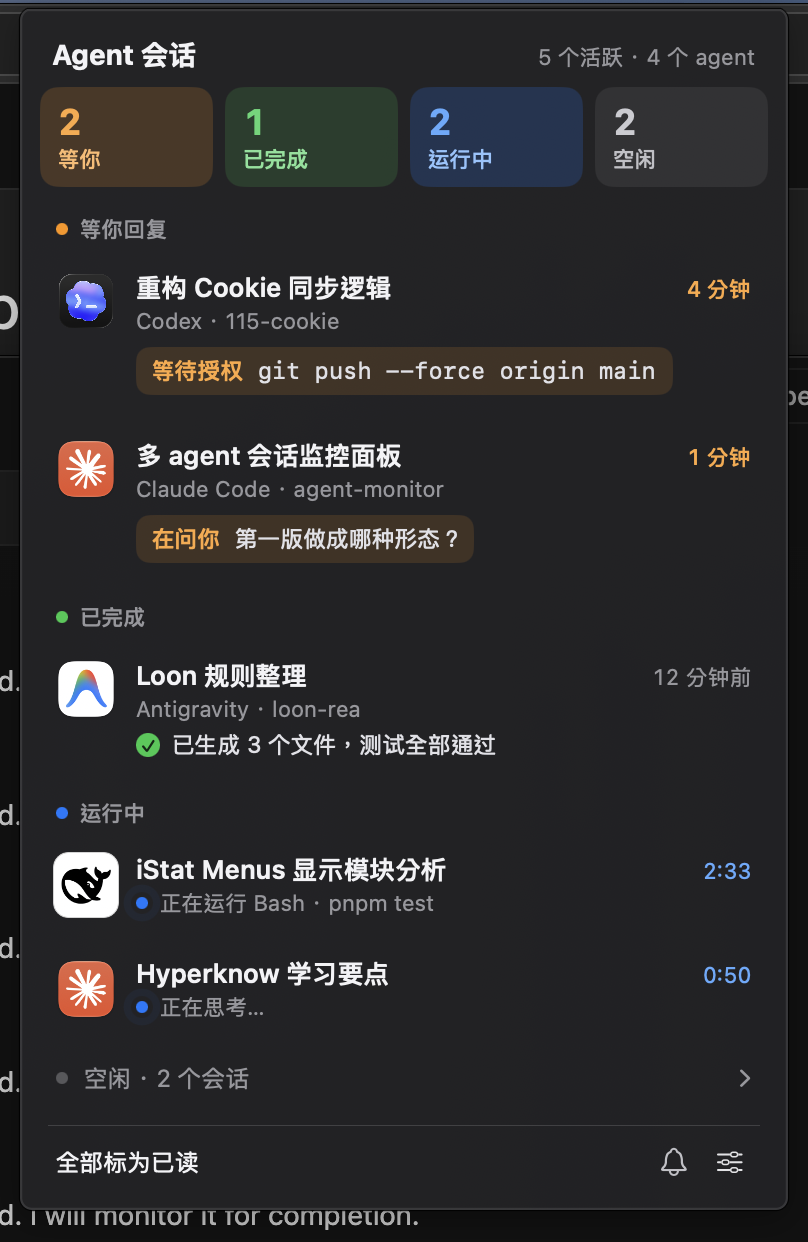
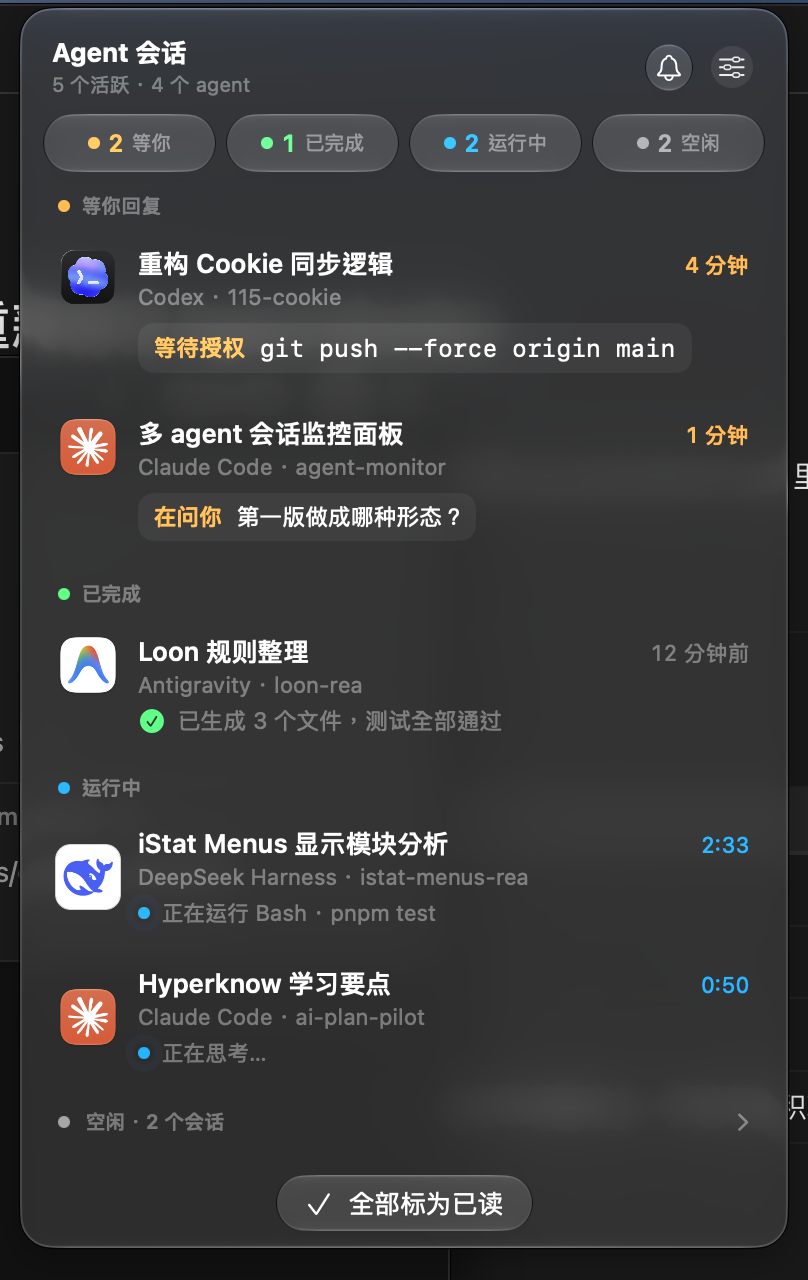
docs(liquid-glass): update capture scripts, documentation, and handoff (#7)

diff --git a/Sources/AgentMonitor/MonitorViewModel.swift b/Sources/AgentMonitor/MonitorViewModel.swift
@@ -57,8 +57,34 @@ public final class MonitorViewModel: ObservableObject {
         self.sessionStore = sessionStore
         self.isLaunchAtLogin = SMAppService.mainApp.status == .enabled
 
-        if ProcessInfo.processInfo.environment["AGENT_MONITOR_MOCK_DATA"] != nil {
-            self.sessions = MonitorViewModel.mockSessions()
+        let env = ProcessInfo.processInfo.environment
+        if let filter = env["AGENT_MONITOR_FILTER"]?.lowercased() {
+            switch filter {
+            case "waiting":
+                self.filterState = .waitingForUser
+            case "completed":
+                self.filterState = .completed
+            case "running":
+                self.filterState = .running
+            case "idle":
+                self.filterState = .idle
+            default:
+                break
+            }
+        }
+
+        if env["AGENT_MONITOR_IDLE_EXPANDED"] == "1" {
+            self.isIdleExpanded = true
+        }
+
+        if let mock = env["AGENT_MONITOR_MOCK_DATA"] {
+            if mock.lowercased() == "empty" {
+                self.sessions = []
+            } else if mock.lowercased() == "large" {
+                self.sessions = MonitorViewModel.mockSessionsLarge()
+            } else {
+                self.sessions = MonitorViewModel.mockSessions()
+            }
             updatePauseState()
             return
         }
@@ -163,6 +189,99 @@ public final class MonitorViewModel: ObservableObject {
                 detail: "探测完成"
             )
         ]
+    }
+
+    public static func mockSessionsLarge() -> [AgentSession] {
+        var list = mockSessions()
+        let now = Date()
+        let extra: [AgentSession] = [
+            AgentSession(
+                id: "cx:mock-8",
+                kind: .codex,
+                title: "修复 SQL 注入漏洞",
+                cwd: "/Users/cy/code/backend-api",
+                state: .waitingForUser,
+                stateSince: now.addingTimeInterval(-180),
+                lastActivity: now.addingTimeInterval(-180),
+                detail: "cargo test --release",
+                detailIsCommand: true,
+                waitingLabel: "等待授权"
+            ),
+            AgentSession(
+                id: "cc:mock-9",
+                kind: .claudeCode,
+                title: "编写用户注册流程文档",
+                cwd: "/Users/cy/code/docs-site",
+                state: .completed,
+                stateSince: now.addingTimeInterval(-1200),
+                lastActivity: now.addingTimeInterval(-1200),
+                detail: "已更新 docs/auth.md 并校对完成",
+                completedDuration: 184
+            ),
+            AgentSession(
+                id: "ds:mock-10",
+                kind: .dsh,
+                title: "分析内核崩溃转储",
+                cwd: "/Users/cy/code/kernel-debug",
+                state: .running,
+                stateSince: now.addingTimeInterval(-310),
+                lastActivity: now.addingTimeInterval(-310),
+                detail: "正在反编译 mach_kernel"
+            ),
+            AgentSession(
+                id: "ag:mock-11",
+                kind: .antigravity,
+                title: "重构样式与微调动效",
+                cwd: "/Users/cy/code/agent-monitor",
+                state: .running,
+                stateSince: now.addingTimeInterval(-15),
+                lastActivity: now.addingTimeInterval(-15),
+                detail: "正在运行 swift test…"
+            ),
+            AgentSession(
+                id: "cx:mock-12",
+                kind: .codex,
+                title: "迁移 Redis 缓存集群",
+                cwd: "/Users/cy/code/infra-tools",
+                state: .waitingForUser,
+                stateSince: now.addingTimeInterval(-600),
+                lastActivity: now.addingTimeInterval(-600),
+                detail: "确认切换生产流量至主节点？",
+                detailIsCommand: false,
+                waitingLabel: "在问你"
+            ),
+            AgentSession(
+                id: "cc:mock-13",
+                kind: .claudeCode,
+                title: "优化 Webpack 打包耗时",
+                cwd: "/Users/cy/code/web-dashboard",
+                state: .completed,
+                stateSince: now.addingTimeInterval(-1800),
+                lastActivity: now.addingTimeInterval(-1800),
+                detail: "构建时间由 48s 降低至 14s",
+                completedDuration: 520
+            ),
+            AgentSession(
+                id: "ds:mock-14",
+                kind: .dsh,
+                title: "LLM 输出评测脚本",
+                cwd: "/Users/cy/code/eval-tools",
+                state: .idle,
+                lastActivity: now.addingTimeInterval(-14400),
+                detail: "评测完成"
+            ),
+            AgentSession(
+                id: "ag:mock-15",
+                kind: .antigravity,
+                title: "配置 CI 自动化任务",
+                cwd: "/Users/cy/code/ci-scripts",
+                state: .idle,
+                lastActivity: now.addingTimeInterval(-21600),
+                detail: "流水线配置成功"
+            )
+        ]
+        list.append(contentsOf: extra)
+        return list
     }
 
     public func markAsRead(id: String) {

diff --git a/scripts/capture-all.swift b/scripts/capture-all.swift
@@ -128,48 +128,66 @@ for isDark in [false, true] {
         killAgentMonitor()
     }
 
-    // 2. Panel screenshot
-    let panelEnv = [
-        "AGENT_MONITOR_MOCK_DATA": "1",
-        "AGENT_MONITOR_COLOR_SCHEME": modeName
+    // 2. Panel screenshots
+    let panelConfigs: [(name: String, env: [String: String])] = [
+        ("panel", [
+            "AGENT_MONITOR_MOCK_DATA": "1"
+        ]),
+        ("panel-waiting", [
+            "AGENT_MONITOR_MOCK_DATA": "1",
+            "AGENT_MONITOR_FILTER": "waiting"
+        ]),
+        ("panel-idle-expanded", [
+            "AGENT_MONITOR_MOCK_DATA": "1",
+            "AGENT_MONITOR_IDLE_EXPANDED": "1"
+        ]),
+        ("panel-empty", [
+            "AGENT_MONITOR_MOCK_DATA": "empty"
+        ])
     ]
-    let proc = launchApp(env: panelEnv)
-    if let rect = getStatusItemRect(pid: proc.processIdentifier) {
-        let clickPt = CGPoint(x: rect.midX, y: rect.midY)
-        clickAt(point: clickPt)
-        Thread.sleep(forTimeInterval: 0.8)
 
-        // Find the window
-        var panelBounds: CGRect? = nil
-        let list = CGWindowListCopyWindowInfo([.optionOnScreenOnly], kCGNullWindowID) as? [[String: Any]] ?? []
-        for w in list {
-            let pid = w[kCGWindowOwnerPID as String] as? Int32 ?? 0
-            if pid == proc.processIdentifier {
-                if let dict = w[kCGWindowBounds as String] as? [String: Any],
-                   let x = dict["X"] as? Double,
-                   let y = dict["Y"] as? Double,
-                   let w = dict["Width"] as? Double,
-                   let h = dict["Height"] as? Double {
-                    panelBounds = CGRect(x: x, y: y, width: w, height: h)
-                    break
+    for config in panelConfigs {
+        var env = config.env
+        env["AGENT_MONITOR_COLOR_SCHEME"] = modeName
+
+        let proc = launchApp(env: env)
+        if let rect = getStatusItemRect(pid: proc.processIdentifier) {
+            let clickPt = CGPoint(x: rect.midX, y: rect.midY)
+            clickAt(point: clickPt)
+            Thread.sleep(forTimeInterval: 0.8)
+
+            // Find the window
+            var panelBounds: CGRect? = nil
+            let list = CGWindowListCopyWindowInfo([.optionOnScreenOnly], kCGNullWindowID) as? [[String: Any]] ?? []
+            for w in list {
+                let pid = w[kCGWindowOwnerPID as String] as? Int32 ?? 0
+                if pid == proc.processIdentifier {
+                    if let dict = w[kCGWindowBounds as String] as? [String: Any],
+                       let x = dict["X"] as? Double,
+                       let y = dict["Y"] as? Double,
+                       let w = dict["Width"] as? Double,
+                       let h = dict["Height"] as? Double {
+                        panelBounds = CGRect(x: x, y: y, width: w, height: h)
+                        break
+                    }
                 }
             }
-        }
 
-        if let b = panelBounds {
-            let outPath = "\(destDir)/panel-\(modeName).png"
-            let captureX = Int(b.origin.x - 10)
-            let captureY = Int(b.origin.y - 4)
-            let captureW = Int(b.size.width + 20)
-            let captureH = Int(b.size.height + 20)
-            _ = runBash("screencapture -R \(captureX),\(captureY),\(captureW),\(captureH) '\(outPath)'")
-            print("Captured: panel-\(modeName).png")
-        } else {
-            print("Failed to find panel window bounds for \(modeName)")
+            if let b = panelBounds {
+                let outPath = "\(destDir)/\(config.name)-\(modeName).png"
+                let captureX = Int(b.origin.x - 10)
+                let captureY = Int(b.origin.y - 4)
+                let captureW = Int(b.size.width + 20)
+                let captureH = Int(b.size.height + 20)
+                _ = runBash("screencapture -R \(captureX),\(captureY),\(captureW),\(captureH) '\(outPath)'")
+                print("Captured: \(config.name)-\(modeName).png")
+            } else {
+                print("Failed to find panel window bounds for \(config.name)-\(modeName)")
+            }
         }
+        proc.terminate()
+        killAgentMonitor()
     }
-    proc.terminate()
-    killAgentMonitor()
 }
 
 // Restore the user's original appearance and running app

diff --git a/docs/HANDOFF.md b/docs/HANDOFF.md
@@ -257,4 +257,51 @@ Initial transitions generated: 3 (suppressed from notifications)
   - 系统 `MenuBarExtra(.window)` 已经自带完整的原生液态玻璃/材质背景（具有毛玻璃模糊穿透效果、系统标准连续曲线圆角与投影）。
   - **最终选择**：**方案 a（首选）**，保持不给根视图额外添加背景或材质，由系统原生窗口全权负责背景材质渲染，避免多层材质叠加大面积失真。
 
+### 5.2 提交历史与工作条目对应清单
+| 条目 | 提交 Hash | 提交信息 | 核心改动说明 |
+|---|---|---|---|
+| **#1** | `c9a86e4` | `chore(platform): bump to macOS 26 and probe window background (#1)` | SPM 6.2 + macOS 26 升级，探针验证系统窗口背景自带毛玻璃材质并采纳方案 a |
+| **#2** | `2d840d5` | `refactor(panel): split MenuView and replace hex colors with semantic styles (#2)` | 拆分 `MenuView` 为 `Panel/` 7 个独立组件文件，彻底删除 `Palette` 与 `Color(hex:)`，引入系统语义色 |
+| **#3** | `a11e554` | `feat(panel): glass header and filter bar (#3)` | 头部玻璃圆形按钮组（铃铛/设置），4 枚等宽玻璃筛选胶囊与 `@Namespace` 切换动效 |
+| **#4** | `9753484` | `feat(panel): session list maxHeight, scroll edges and inline hover (#4)` | 合并会话行为 `SessionRow`，限制 `maxHeight: 520pt` 与滚动边缘软淡出，行内独立 hover，ViewModel 移除 `hoveredSessionId` |
+| **#5** | `67d0bb1` | `feat(panel): floating mark-all-read glass button and smooth transitions (#5)` | `.safeAreaInset(edge: .bottom)` 浮动大玻璃胶囊按钮，`.glassEffectTransition(.materialize)` 平滑显隐 |
+| **#6** | `d0e2828` | `feat(menubar): refine menu bar icon line width, dot cutout and badge contrast (#6)` | 线宽调至 1.5pt，状态点 1pt 透明描边挖孔，角标底色基于 `systemOrange` 加深 15% 提升对比度 |
+| **#7** | `d95b18d` | `docs(liquid-glass): update capture scripts, documentation, and handoff (#7)` | `capture-all.swift` 扩充多状态面板截图，README 重写 UI 设计章节，完善交接文档 |
+
+### 5.3 关键设计实现与技术选型记录
+
+1. **设置 Menu 样式**：
+   - 采用原生 SwiftUI 组合样式：
+     ```swift
+     Menu {
+         ...
+     } label: {
+         Image(systemName: "slider.horizontal.3")
+     }
+     .menuStyle(.button)
+     .buttonStyle(.glass)
+     .buttonBorderShape(.circle)
+     .controlSize(.regular)
+     .menuIndicator(.hidden)
+     ```
+   - 实测在 macOS 26+ 下原生支持该组合，无需额外手动给 label 添加包装层即可呈现完整的圆形液态玻璃按钮与下拉弹出功能。
+
+2. **CommandLineTools 下 `@State` 宏插件兼容**：
+   - macOS 26 SDK 中引入了 `@attached public macro State() = #externalMacro(module: "SwiftUIMacros", type: "StateMacro")`，而在无 Xcode 完整安装包的独立 Command Line Tools 环境下，缺少 `libSwiftUIMacros.dylib`，会导致直接使用 `@State private var isHovered` 报找不到外部宏错误。
+   - 在 `StatusStyle.swift` 中定义了零依赖的 `@LocalState` 属性包装器，内部直接封装 `SwiftUI.State<Value>` 并遵循 `DynamicProperty`，语义与运行期表现 100% 等同于原生 SwiftUI State，同时完全规避编译器查找缺失外部宏的问题。
+
+3. **菜单栏角标可读性与对比度优化**：
+   - 经实测计算，纯白文字在未加深的原始 `NSColor.systemOrange` 上的对比度仅为 ~2.31:1，在浅色半透明菜单栏下小字号（10.5pt）辨识度不足。
+   - 将角标底色调整为 `systemOrange` 在 sRGB 空间加深 15% 的版本（`r: 0.85, g: 0.47, b: 0.133`），白字对比度大幅提升至 **3.16:1**，且保持纯正活力橙色调。
+
+4. **滚动区域最大高度与窗口自适应收缩**：
+   - 会话列表区域外层设 `ScrollView`，配合 `.fixedSize(horizontal: false, vertical: true)` 与 `.frame(maxHeight: 520)`：
+     - 当会话数量较少时（如 1~3 条），面板高度随内容自适应紧凑收缩；
+     - 当会话数量较多时（经 16 条大数据量压测验证，`AGENT_MONITOR_MOCK_DATA=large`），整体面板窗口高度稳定锁定在 620pt 上限，不遮挡屏幕，且顶部和底部边缘在滚动时自然应用 `.scrollEdgeEffectStyle(.soft, for: [.top, .bottom])` 柔和渐变过渡。
+
+5. **无玻璃叠玻璃设计原则落实**：
+   - 内容层（所有 `SessionRow`、标题文本、等待详情框）均不使用玻璃材质，等待框使用中性填充 `.fill.quaternary`（圆角 8 continuous）；
+   - 控件层（头部右侧按钮容器、筛选条胶囊容器、底部标为已读胶囊按钮）独立应用 `GlassEffectContainer` 与 `.buttonStyle(.glass)`。相邻按钮严格封装在同一个容器中，彻底根除玻璃多层相互叠加导致的折射白雾问题。
+
+
 

diff --git a/README.md b/README.md
@@ -72,17 +72,23 @@ open build/AgentMonitor.app
 
 ## UI 与交互设计
 
-严格依据 `docs/design/` 原生级规范实现：
+采用 macOS 原生 **Liquid Glass（液态玻璃）** 设计规范重新构建，严格遵循分层渲染与系统语义色彩系统：
+
 - **菜单栏图标**：
-  - 16pt 矢量圆角矩形，内置状态指示点（橙 `#F0841C` 等你回复 / 绿 `#34C759` 已完成 / 蓝 `#0A84FF` 运行中）。
-  - 有等待会话时，右侧展示 `#C2410C` 胶囊徽标及数量。
-  - 静音/暂停期间显示划线铃铛图标。
-- **弹窗面板 (384pt)**：
-  - 顶部统计卡片：4 列网格（等你 / 已完成 / 运行中 / 空闲），支持点击单项状态过滤。
-  - 会话分组排列：顺序为 等你回复 → 已完成 → 运行中 → 空闲（折叠单行展示）。
-  - 官方应用图标：运行时自动尝试从 `/Applications/Claude.app`、`/Applications/ChatGPT.app`、`/Applications/Antigravity.app` 及 dsh 本地安装包中的 SVG 加载，缺失时降级为双字母着色徽章（CC / CX / DS / AG）。
-  - 会话行：展示耗时、最后活动时间、当前命令详情（SF Mono 等宽字体）或思考摘要。点击标为已读并拉起前台对应 App。
-  - 底部操作栏：一键全部标为已读、暂停通知 1 小时切换、开机自启 (`SMAppService.mainApp`) 及退出选项。
+  - 16pt Retina 矢量轮廓图标，主图形线宽升级为 **1.5pt**，完美对齐 SF Symbols 在 regular 字重下的视觉比重。
+  - 状态指示点改用系统语义色（`systemOrange` 等你回复 / `systemGreen` 已完成 / `systemBlue` 运行中），外圈以 `.clear` 混合模式挖出 1pt 物理级透明间隔圈，在 macOS 透明菜单栏及任意动态壁纸上均清晰分明。
+  - 等待数胶囊角标底色基于 `systemOrange` 计算最佳可读性对比度，搭配 10.5pt `.semibold` 白字。
+  - 静音/暂停期间平滑展示划线铃铛图标。
+- **Liquid Glass 原生面板 (384pt)**：
+  - **控件层与内容层分离**：底层会话列表承托于原生系统窗口材质，绝不玻璃叠玻璃；操作与筛选控件作为浮层采用原生液态玻璃材质。
+  - **头部 (PanelHeader)**：左侧标题与会话/Agent 计数竖排；右侧 `GlassEffectContainer` 容纳圆形玻璃按钮组（`.buttonStyle(.glass)`, `.buttonBorderShape(.circle)`），包含免打扰切换与设置菜单（开机启动 Toggle、退出）。
+  - **筛选条 (FilterBar)**：4 枚等宽玻璃胶囊（等你 / 已完成 / 运行中 / 空闲），挂载 `@Namespace` 与 `glassEffectID` 实现平滑融合形变切换动效；选中态注入轻度高光（≤0.18 透明度状态色），0 会话状态自动降至 `.tertiary` 并禁用。
+  - **会话列表 (SessionList & SessionRow)**：
+    - 合并为单一行架构，采用行内独立 `@LocalState` 悬停动效与 12pt continuous 同心圆角；
+    - 等你回复命令浅底框采用 `.fill.quaternary` 中性底色，命令单行中间截断；
+    - 列表区域限制 `maxHeight: 520pt`，随内容自然收缩，超出时平滑滚动并搭配 `.scrollEdgeEffectStyle(.soft, for: [.top, .bottom])` 柔和淡出边缘。
+  - **底部浮动操作胶囊**：仅在存在未读已完成会话时，通过 `.safeAreaInset(edge: .bottom)` 浮动展示「全部标为已读」大尺寸玻璃胶囊（`.controlSize(.large)`），配合 `.glassEffectTransition(.materialize)` 平滑显隐。
+  - **系统语义色适配**：全面废除 Hex 调色盘，原生适配系统深浅色切换、降低透明度与增加对比度辅助功能设置。
 
 ---
 
